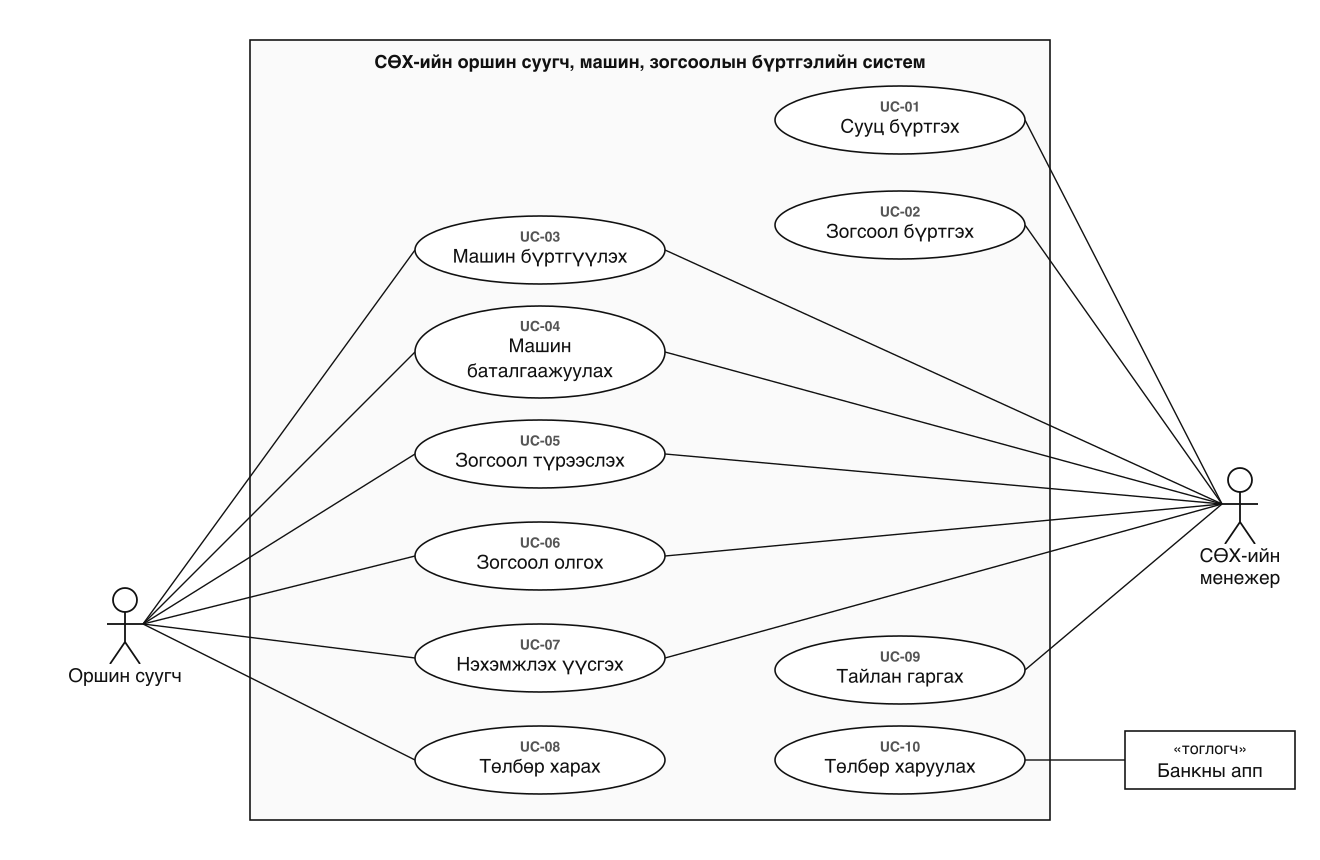
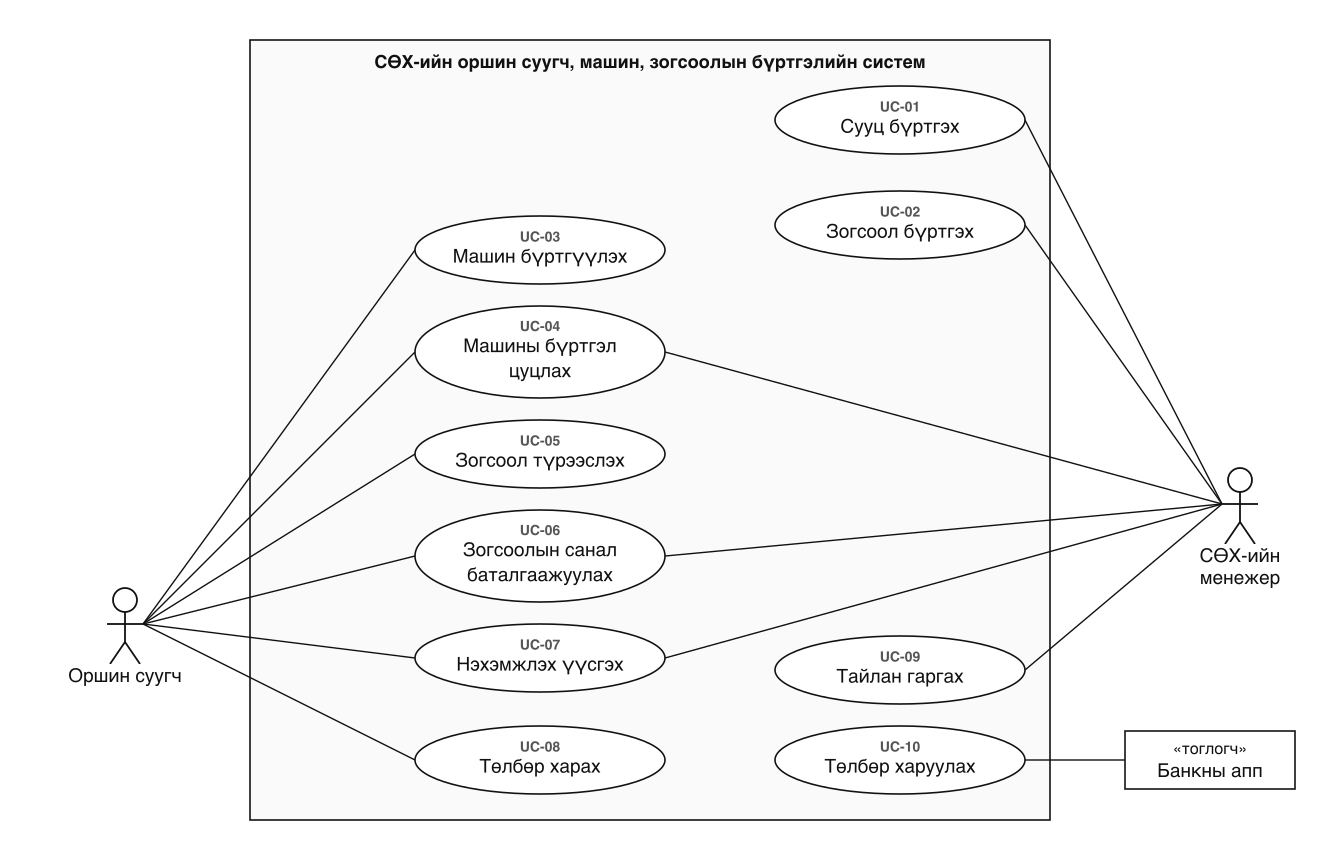
Загвар: зогсоолыг санал болгож баталгаажуулна, машиныг менежер батлахгүй (US-04, US-05, US-10)

Changed region(s): [[0.3106, 0.6047, 0.497, 0.6953], [0.3417, 0.393, 0.4659, 0.4535], [0.4659, 0.6047, 0.497, 0.6349]]

diff --git a/docs/design.md b/docs/design.md
@@ -18,18 +18,18 @@
 |---|---|---|
 | Хэрэглэгч | Gmail хаяг, утас, үүрэг (оршин суугч, менежер) | US-01, US-02 |
 | Сууц | Байр, орц, давхар, тоот, талбай, сууцны код, оршин суугч | US-02, US-14 |
-| Зогсоол | Дугаар, байршил, өмчлөлийн төрөл (дундын, хувийн), төлөв | US-03 |
-| Машин | Улсын дугаар, марк, өнгө, төлөв, татгалзсан шалтгаан, бүртгүүлсэн огноо | US-04, US-05 |
-| Зогсоолын түрээс | Хүсэлт гаргасан машин, хүсэлтийн огноо, хугацаа (сараар), эхлэх ба дуусах огноо, шийдвэр гаргасан менежер ба огноо, төлөв | US-06, US-07, US-08, US-10 |
+| Зогсоол | Дугаар, байршил, өмчлөлийн төрөл (дундын, хувийн), төлөв (сул, санал болгосон, түрээслэгдсэн, түр хаасан) | US-03, US-10 |
+| Машин | Улсын дугаар, марк, өнгө, төлөв (идэвхтэй, цуцлагдсан), цуцалсан шалтгаан, бүртгүүлсэн огноо | US-04, US-05 |
+| Зогсоолын түрээс | Хүсэлт гаргасан машин, хүсэлтийн огноо, хугацаа (сараар), санал болгосон огноо ба хариу өгөх хугацаа, эхлэх ба дуусах огноо, төлөв | US-05, US-06, US-07, US-08, US-10 |
 | Нэхэмжлэх | Сар, хураамж, түрээсийн төлбөр, алданги, үүссэн огноо, төлөх хугацаа, төлөв | US-12, US-13, US-14 |
 | Төлбөр | Төлсөн дүн, огноо, банк, гүйлгээний дугаар | US-13, US-14 |
 | Мэдэгдэл | Хэрэглэгч бүрд очсон мэдэгдлийн агуулга, огноо, уншсан эсэх | US-05, US-10, US-12 |
 
-Хураамж, түрээсийн үнэ, алдангийн хувь, төлөх өдөр, машины дээд тоо өгөгдлийн санд биш, тохиргооны файлд хадгалагдана. Үнэ өөрчлөгдөхөд програмын код өөрчлөгдөхгүй.
+Хураамж, түрээсийн үнэ, алдангийн хувь, төлөх өдөр, машины дээд тоо, санал баталгаажуулах хугацаа (48 цаг) өгөгдлийн санд биш, тохиргооны файлд хадгалагдана. Үнэ өөрчлөгдөхөд програмын код өөрчлөгдөхгүй.
 
-Хоёр дүрмийг өгөгдлийн сангийн түвшинд хангана: сууцны код ба машины улсын дугаар давхардахгүй, нэг зогсоолд нэгэн зэрэг зөвхөн нэг идэвхтэй түрээс байна.
+Хоёр дүрмийг өгөгдлийн сангийн түвшинд хангана: сууцны код ба машины улсын дугаар давхардахгүй, нэг зогсоолд нэгэн зэрэг зөвхөн нэг санал эсвэл идэвхтэй түрээс байна.
 
-Хүлээлгийн жагсаалтад тусдаа хүснэгт байхгүй. Зогсоол оноогдоогүй, хүлээгдэж буй төлөвтэй хүсэлтийг хүсэлтийн огноогоор эрэмбэлэхэд дараалал гарна. Өмнө зогсоол түрээсэлсэн эсэх эрэмбэд нөлөөлөхгүй.
+Хүлээлгийн жагсаалтад тусдаа хүснэгт байхгүй. Зогсоол оноогдоогүй, «дараалалд» төлөвтэй хүсэлтийг хүсэлтийн огноогоор эрэмбэлэхэд дараалал гарна. Зогсоол сул болмогц систем дарааллын эхний хүсэлтэд санал болгож, оршин суугч 48 цагт баталгаажуулна. Менежер ердийн олголтод оролцохгүй, машины бүртгэлийг батлахгүй: гомдол ирвэл бүртгэлийг шалтгаантай цуцалж, засвартай зогсоолыг түр хаана. Өмнө зогсоол түрээсэлсэн эсэх эрэмбэд нөлөөлөхгүй.
 
 ## 3. Sprint 1-д хамаарах хэсэг
 
